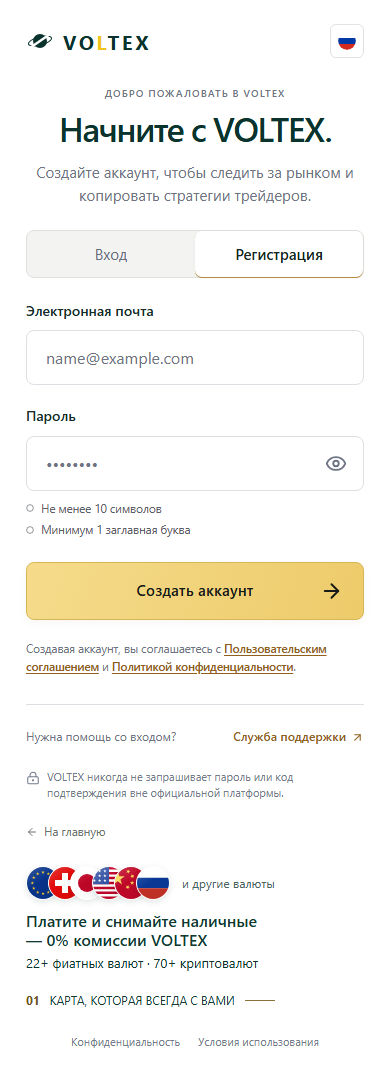
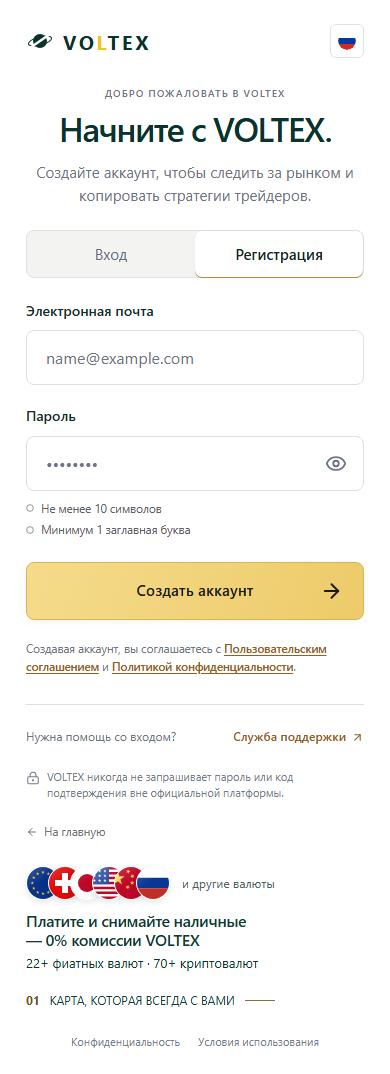
Keep card copy clear with wider fallback font metrics

Changed region(s): [[0.0923, 0.8296, 0.5538, 0.8911], [0.5846, 0.8296, 0.6462, 0.8603]]

diff --git a/frontend/src/lib/__tests__/authBusinessClassVisual.test.ts b/frontend/src/lib/__tests__/authBusinessClassVisual.test.ts
@@ -146,7 +146,7 @@ describe('business-class visual preserves reviewed authentication', () => {
 
   test('fee typography is scoped, opaque and readable without a badge or smaller type', () => {
     expect(css).toContain('.vx-auth .vx-auth-card-fee { white-space: nowrap; }');
-    expect(css).toContain('.vx-auth .vx-auth-community-copy strong { color: #123a33; font-size: 17px; font-weight: 600; line-height: 1.15; text-wrap: wrap; }');
+    expect(css).toContain('.vx-auth .vx-auth-community-copy strong { color: #123a33; font-size: 17px; font-weight: 600; line-height: 1.15; letter-spacing: -.025em; text-wrap: wrap; }');
     expect(css).toContain('.vx-auth .vx-auth-community-copy > span { color: #0d332d; font-size: 14px; font-weight: 400; line-height: 1.4; }');
     expect(css.match(/\.vx-auth \.vx-auth-community-copy strong \{ font-size: 16px; \}/g)).toHaveLength(2);
     const captionCSS = css.slice(css.indexOf('.vx-auth .vx-auth-extras {'), css.indexOf('/* Light form theme'));

diff --git a/frontend/src/pages/auth-shell/auth-shell.css b/frontend/src/pages/auth-shell/auth-shell.css
@@ -172,7 +172,7 @@
 .vx-auth .vx-auth-currency-more { color: #47635d; font-size: 12px; font-weight: 400; line-height: 1.3; }
 .vx-auth .vx-auth-community-copy { display: flex; flex-direction: column; gap: 5px; min-width: 0; }
 .vx-auth-brand-banner .vx-auth-community-copy { padding-right: 40px; }
-.vx-auth .vx-auth-community-copy strong { color: #123a33; font-size: 17px; font-weight: 600; line-height: 1.15; text-wrap: wrap; }
+.vx-auth .vx-auth-community-copy strong { color: #123a33; font-size: 17px; font-weight: 600; line-height: 1.15; letter-spacing: -.025em; text-wrap: wrap; }
 .vx-auth .vx-auth-community-copy > span { color: #0d332d; font-size: 14px; font-weight: 400; line-height: 1.4; }
 .vx-auth .vx-auth-card-fee { white-space: nowrap; }
 .vx-auth .vx-auth-currency-amount { display: inline-block; white-space: nowrap; }

diff --git a/docs/AI_HANDOFF.md b/docs/AI_HANDOFF.md
@@ -5880,3 +5880,4 @@ Validation: full frontend218 suites /3,787 passed /6existing skipped; mocked bac
 - Updated only `authShell.communityTitle` in seven locales to attribute 0% to VOLTEX's own fee, retaining exact 22+/70+ subtitle and all tariff/eligibility wording elsewhere. Shared HTML keeps the commission phrase together. Title grows one CSS pixel, weight 600; subtitle has deeper dark-green color. Minimal internal spacing prevents protected card/hand overlap; no panel, badge, new dependency, request or image generation.
 - Unchanged selected photo hash, cropping/columns, six flag assets/sizes/overlap, partial-list hint, static 01/card caption and form/yellow-button CSS. Functional auth/register/fields/returnTo files remain fingerprint-locked. No Stocks/CFD/home/backend/API/infrastructure changes.
 - Actual built-browser QA PASS: 38 route/locale/device cases, 12 resize/zoom-equivalent cases, four high-DPI desktop/mobile crops and three fixture behavior/error scenarios. CLS 0 on initial loads; zero unexpected errors, failed/denied requests or forwarded writes. Actual text glyph/flag rectangles retain all protected photo-region assertions. Updated eight real screenshots. Local build and relevant tests pass; new exact-head CI must be obtained after push, not reused from #472.
+- Opened PR #475 at first head `2152e8328b2fcc9a3ce628017de18b392ce49290`; Linux presentation CI found wider Arial metrics causing an extra title line and flag/black-card overlap at 1366x768. Reproduced with Arial from first HTML paint; resolved using only -.025em title letter spacing, not smaller type, moved photo/form or weaker assertions. Repeated full normal-font and Arial-fallback browser matrices PASS; final five suites / 168 tests and build PASS. Refreshing eight screenshots and repeating CI on the new head; no merge/deploy/production writes.

diff --git a/docs/qa/auth-business-class/README.md b/docs/qa/auth-business-class/README.md
@@ -104,7 +104,8 @@ opacity 1. Commission wording remains an atomic phrase (not a badge), attributed
 explicitly to VOLTEX in all seven locales; it makes no claim about third-party
 bank/ATM charges. Existing tariffs and card conditions are unchanged.
 Only necessary internal text spacing changes: 40px right inset on the Russian
-photo text, compact title line-height 1.15 and natural, non-balanced wrapping.
+photo text, compact title line-height 1.15, -.025em letter spacing and natural,
+non-balanced wrapping.
 These keep the longer heading between both protected cards at 1366x768.
 Photo overlap checks now measure every actual text-node rectangle and flag,
 rather than empty flex-box area. All protected source regions remain enforced.
@@ -114,7 +115,10 @@ geometry. This also accommodates wider platform font metrics without
 overlapping the black card at a 700px window height.
 Preservation locks also cover the shell markup outside the currency presentation, all CSS outside these captions,
 and the unchanged soft bottom gradient. No global number replacement is used.
-Local TypeScript/build and focused preservation/localization/auth tests passed. Fresh remote exact-head
+Local TypeScript/build and five focused suites / 168 tests passed. The full
+browser matrix also passes with the existing Arial fallback selected before
+first paint, covering the wider font metrics found in Linux CI without changing
+production fonts or relaxing any overlap check. Fresh remote exact-head
 CI is still required for this follow-up; earlier PR/head results are not
 evidence for this revision.
 No checks are waived or disabled.
